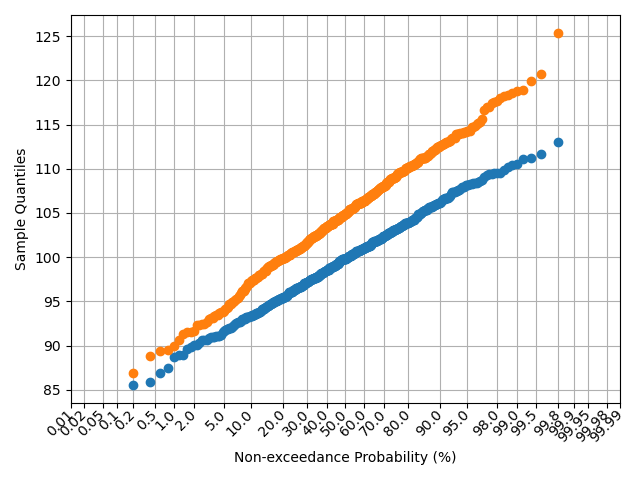
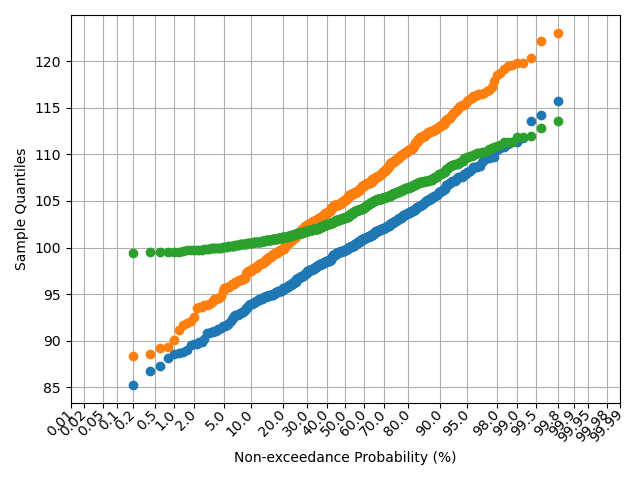
add skew to pplot

diff --git a/probplot.html b/probplot.html
@@ -100,6 +100,7 @@
             <li>Several distributions can be plotted on the same plot for comparison.</li>
             <li>The median is where the data intersects the 50% point.</li>
             <li>The standard deviation is proportional to the slope of the data.  (The actual standard deviation is roughly the 84% point minus the 50% point.)</li>
+            <li>The linearity of the data represents how well the data fits the chosen distribution.</li>
         </ol>
         Here is how this example data was generated:
         <pre>

diff --git a/probplot.py b/probplot.py
@@ -2,6 +2,7 @@ import statsmodels.api as sm
 import matplotlib.pyplot as plt
 import numpy as np
 import itertools
+from scipy.stats import skewnorm
 
 means = [100, 105]
 std_devs = [5, 6]
@@ -10,7 +11,7 @@ num_to_sim = 500
 
 data = [
     np.random.randn(num_to_sim) * s + mu for mu, s in zip(means, std_devs)
-]
+] + [skewnorm.rvs(10, size=num_to_sim)*std_devs[0] + means[0]]
 
 plt.hist(data[0])
 plt.xlabel('Value')
@@ -20,6 +21,8 @@ plt.savefig('imgs/basic_histogram.png')
 plt.figure()
 plt.hist(data[0])
 plt.hist(data[1], alpha=0.5)
+# plt.hist(data[2], alpha=0.5)
+
 plt.xlabel('Value')
 plt.ylabel('Count')
 plt.savefig('imgs/two_distributions.png')
@@ -27,8 +30,10 @@ plt.savefig('imgs/two_distributions.png')
 
 pp = sm.ProbPlot(data[0])
 pp2 = sm.ProbPlot(data[1])
+pp3 = sm.ProbPlot(data[2])
 fig = pp.probplot()
 pp2.probplot(ax=fig.gca())
+pp3.probplot(ax=fig.gca())
 plt.grid(True)
 
 colors = itertools.cycle(plt.rcParams['axes.prop_cycle'].by_key()['color'])
@@ -40,3 +45,4 @@ for l in fig.gca().get_lines():
 
 plt.tight_layout()
 plt.savefig('imgs/probplot.png')
+
